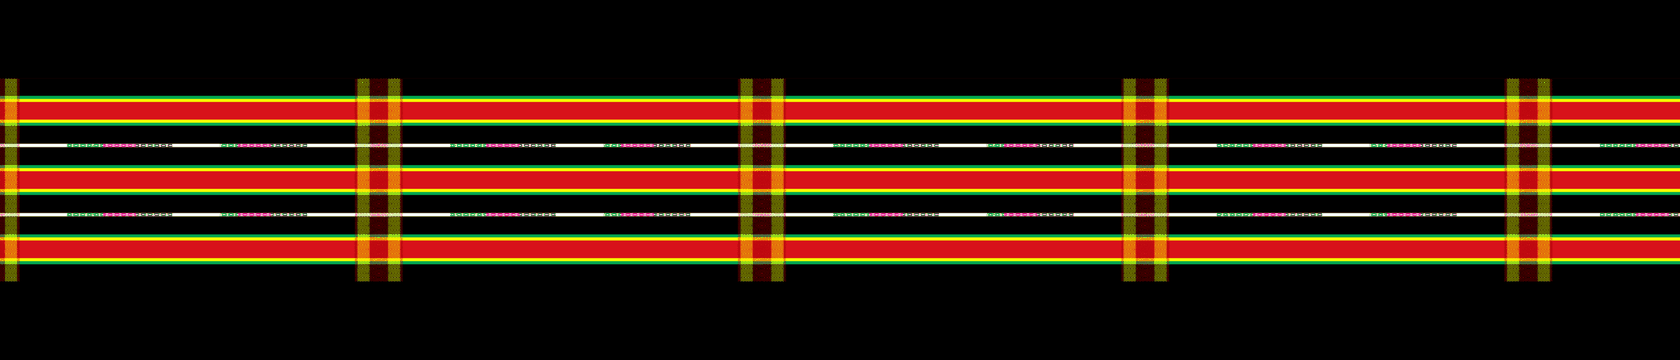
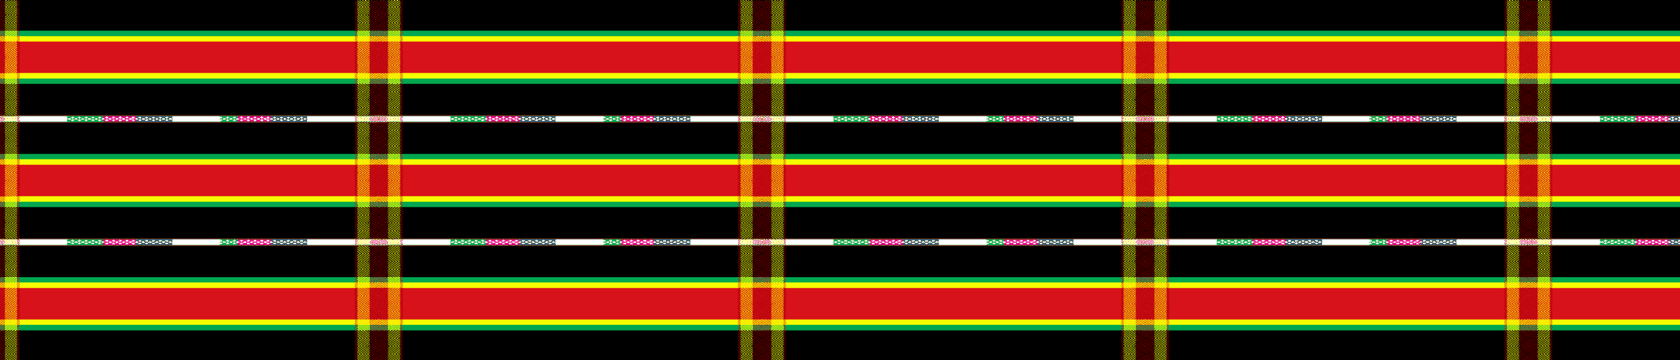
Trim the band's black border to match the weave
The full selvedge put a black slab across a quarter of the band at each edge.
The crop now stops 36 source pixels into the border on each side — the same
width as the black bands inside the pattern — so the frame reads at 10px, level
with the bands it sits beside, and the woven panel fills the rest.

The cache goes to v6 because the shell image changed.

diff --git a/src/puan.ts b/src/puan.ts
@@ -1,6 +1,7 @@
-// The liangbat band: the real shoulder shawl turned on its side and scaled to
-// fit — full width, selvedge to selvedge, so nothing is cropped. 560 x 120 as
-// it sits on the page; public/liangbat.png carries it at 3x for dense screens.
-// Kept identical to the inline copy in public/index.html.
+// The liangbat band: the real shoulder shawl turned on its side — the woven
+// panel plus 36 px of selvedge each side, so the black border is the same width
+// as the black bands inside the weave rather than a slab. 560 x 120 on the page
+// from public/liangbat.png at 3x. Kept identical to the inline copy in
+// public/index.html.
 export const PUAN =
   '<img class="puan" src="/liangbat.png" width="560" height="120" alt="Paite liangbat, the woven shoulder shawl" decoding="async">';

diff --git a/public/sw.js b/public/sw.js
@@ -7,7 +7,7 @@
 // later deploy. Do not go back to that order. Raise CACHE when the shell
 // changes, so the old store is dropped on activate.
 
-const CACHE = "paite-daily-v5";
+const CACHE = "paite-daily-v6";
 
 const SHELL = [
   "/",
